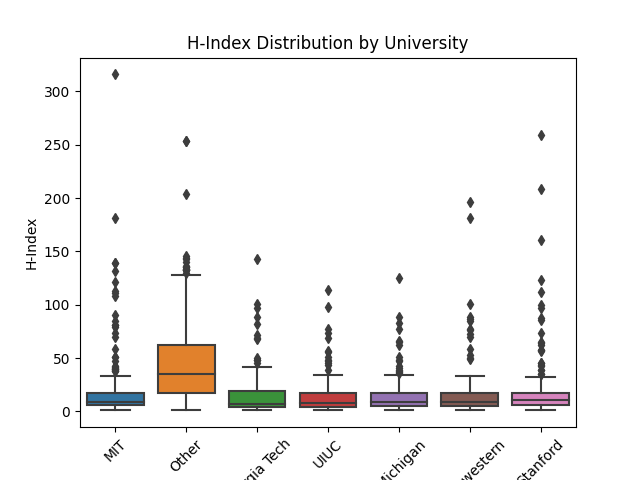
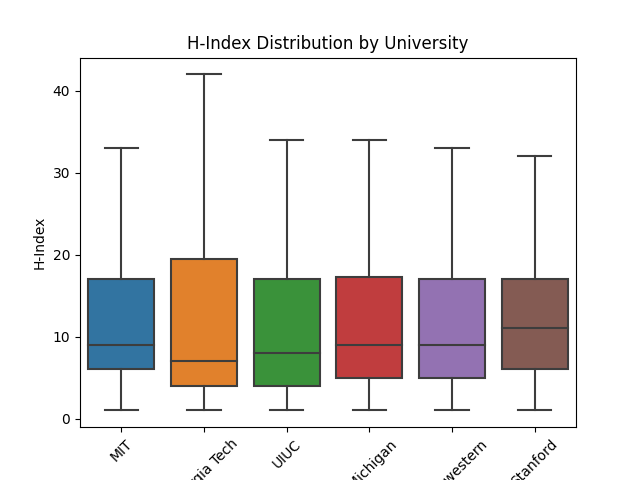
Better data

diff --git a/graph.py b/graph.py
@@ -6,8 +6,8 @@ def graph():
     df = pd.read_csv('metrics.csv')
     print(df.head())
 
-    # Box plot
-    sns.boxplot(x=df['Affiliation'], y=df['H-index'])
+    # by default, outliers are not included. This helps pretty the plot
+    sns.boxplot(x=df['Affiliation'], y=df['H-index'], showfliers=False) 
     plt.xlabel('University')
     plt.ylabel('H-Index')
     plt.title('H-Index Distribution by University')
